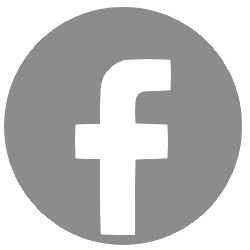
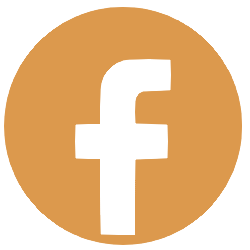
se areglaron iconos

diff --git a/html/footer.html b/html/footer.html
@@ -5,7 +5,13 @@
     <p>Correo electrónico: salonesparaiso@paraisosalones.com</p>
     </div>
     <div class="footer-icons">
-    <img src="/img/fb_icon.png" alt="Facebook Icon">
-    <img src="/img/insta_icon.png" alt="Instagram Icon">
+        <div class="footer-icons">
+            <a href="https://www.facebook.com" target="_blank">
+                <img src="/img/fb_icon.png" alt="Facebook Icon">
+            </a>
+            <a href="https://www.instagram.com" target="_blank">
+                <img src="/img/insta_icon.png" alt="Instagram Icon">
+            </a>
+        </div>
     </div>
 </div>

diff --git a/css/footer.css b/css/footer.css
@@ -35,7 +35,7 @@
     margin-right: 15px;
 }
 
-.footer-icons img {
+.footer-icons a img {
     width: 40px; /* Adjust the width as needed */
     height: 40px; /* Adjust the height as needed */
 }
